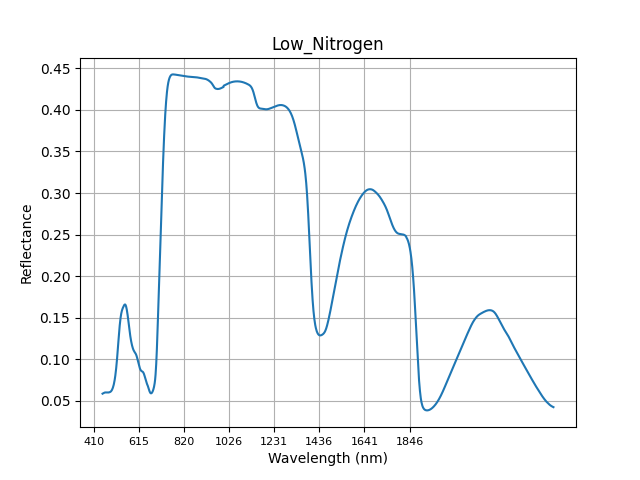
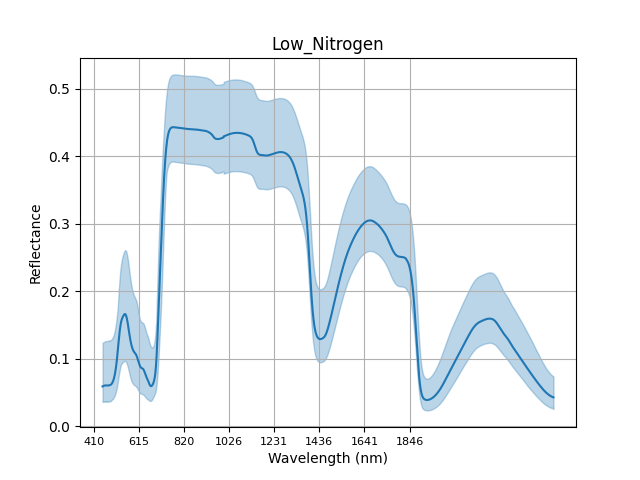
spectral wave and reflectanc eplots look like paper now

diff --git a/thesis/S2/data_analysis.py b/thesis/S2/data_analysis.py
@@ -245,8 +245,9 @@ class C_Plot_Wavelenght_reflectance:
         y_label = 'Reflectance'
         
         # Plot each entry with a different color
-        for i, (wavelengths_values, reflectance_values, std, max, min) in enumerate(zip(self.wavelengths_arr, self.reflectance_arr, self.reflectance_arr_std, self.reflectance_max, self.reflectance_min)):
-            plt.plot(wavelengths_values, reflectance_values, label=self.lables[i])  
+        for i, (wavelengths_values, reflectance_values, std, max_vals, min_vals) in enumerate(zip(self.wavelengths_arr, self.reflectance_arr, self.reflectance_arr_std, self.reflectance_max, self.reflectance_min)):
+            line, = plt.plot(wavelengths_values, reflectance_values, label=self.lables[i])
+            plt.fill_between(wavelengths_values, min_vals, max_vals, color = line.get_color(), alpha=0.3)   
             
                  
         plt.title("Reflectance vs Wavelength")
@@ -284,9 +285,10 @@ class C_Plot_Wavelenght_reflectance:
         # Plot with std
         print(f"{lable}: min {min_vals} max: {max_vals}") 
         #print(f"Reflectance:{reflectance}")  
-        #plt.fill_between(wavelenghts, min_vals, max_vals, color='gray', alpha=0.3, label='Min–Max Range')        
-        # Plot the data
-        plt.plot(x_points, y_points) 
+        # Plot the data 
+        line, = plt.plot(x_points, y_points)  
+        plt.fill_between(wavelenghts, min_vals, max_vals, color = line.get_color(), alpha=0.3)         
+
 
         #save plot as a png file
         plt.savefig(f'{output_dir}{lable}_wavelenght_reflectance_plot.png')
